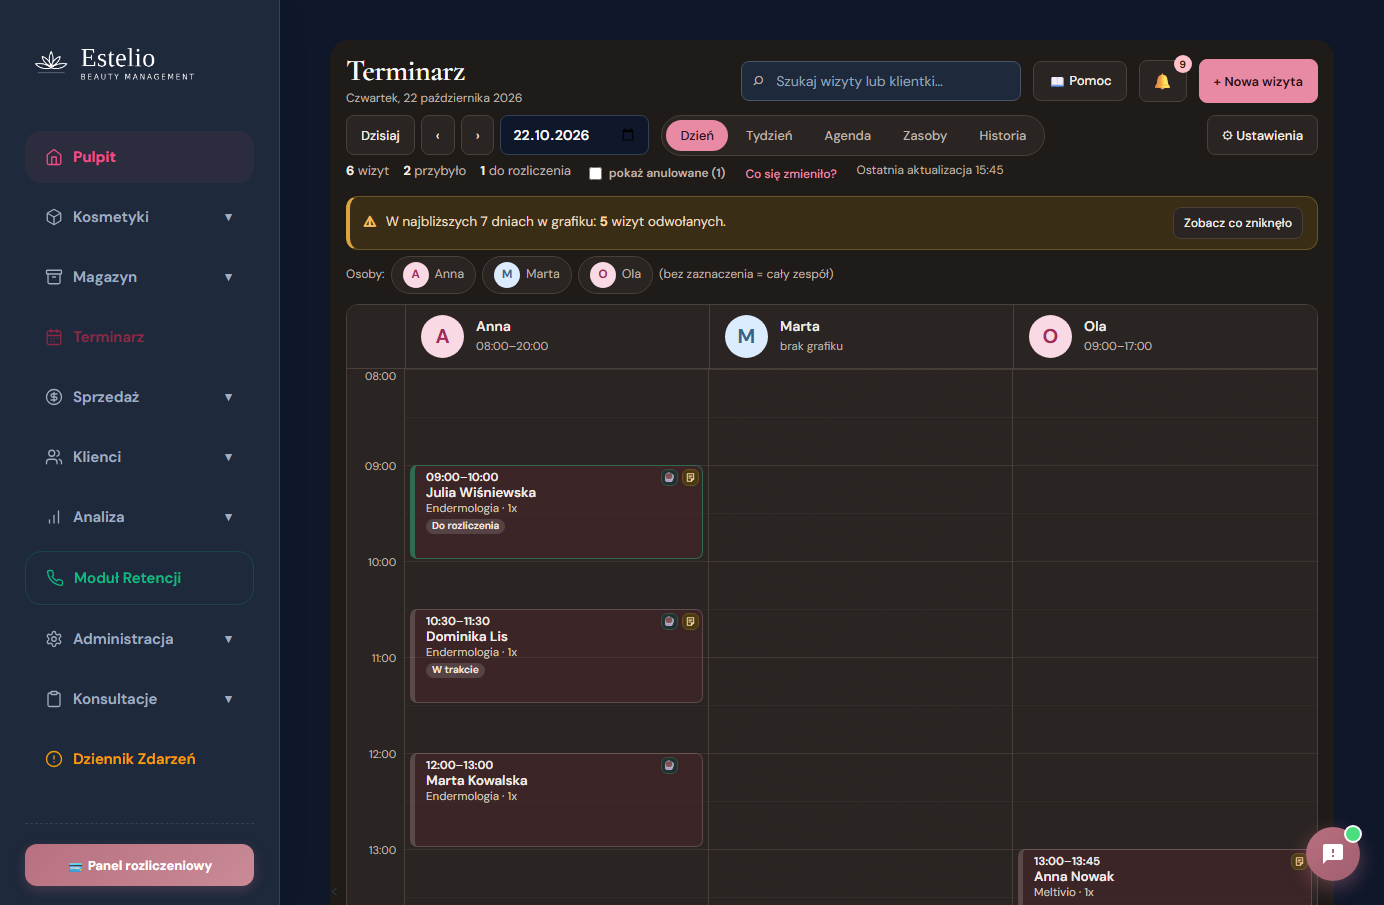
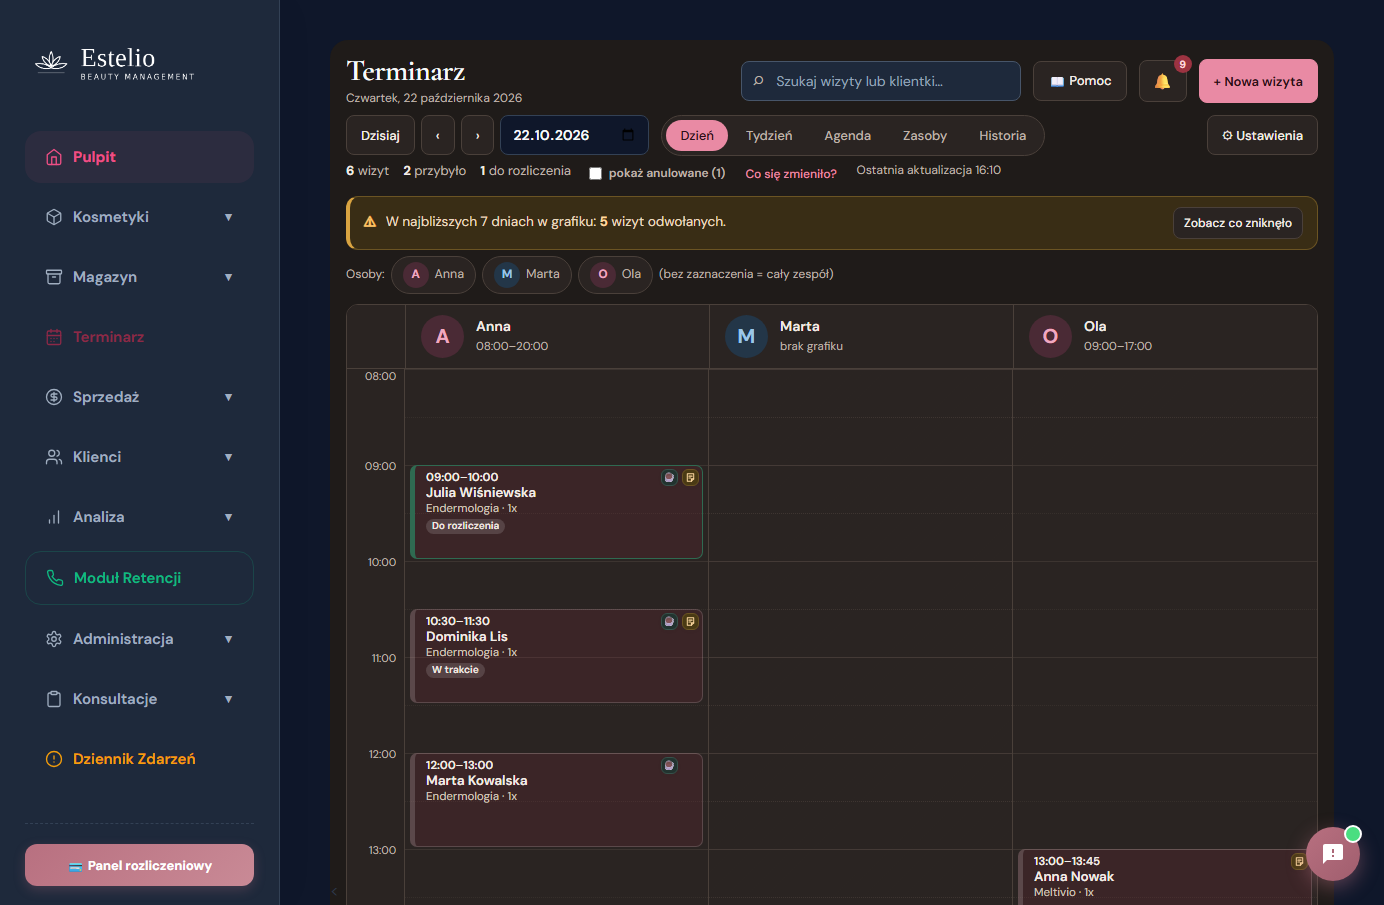
fix(terminarz): ciemny motyw — licznik dzwonka i awatary przestaly swiecic
Po przeklikaniu: przy „Pilne teraz" zostaly jeszcze jasne elementy mocno kontrastujace
z reszta — licznik przy dzwonku (jasnorozowe kolko z liczba, jasnosc 205/255) i pastelowe
awatary osob. Na jasnym tle sa delikatne, na ciemnym byly najjasniejszym punktem ekranu.
Tla sciemnione, litery rozjasnione; kod kolorystyczny osob bez zmian.

Kontrola: skan wszystkich elementow modulu nie znajduje juz tla jasniejszego niz 170/255 —
zostaja tylko polprzezroczyste biele 14–16% (obramowania kart, znaczniki stanu).

diff --git a/public/terminarz.css b/public/terminarz.css
@@ -636,3 +636,13 @@ body.dark-mode .trm .trm-pref-znak { background:#22332f; border-color:#36514a; }
 body.dark-mode .trm .trm-karta .u { color:#d2c5bd; }
 body.dark-mode .trm .trm-karta .zn span { background:rgba(255,255,255,.14); color:#f0e7e1; }
 body.dark-mode .trm .trm-karta.anul { background:#2b2522; }
+/* Poprawka po przeklikaniu (19.10.2026): w ciemnym motywie świeciły jeszcze trzy rzeczy
+   zbudowane z jasnych pasteli — licznik przy dzwonku i awatary osób. Na jasnym tle są
+   delikatne, na ciemnym stają się najjaśniejszym punktem ekranu. Ściemniamy tła,
+   rozjaśniamy litery — ten sam kod kolorystyczny, tylko odwrócony. */
+body.dark-mode .trm .trm-dzwonek-licz { background:#7d5718; color:#ffe6bd; }
+body.dark-mode .trm .trm-dzwonek-licz.pilne { background:#9c3341; color:#ffd7dd; }
+body.dark-mode .trm .trm-awatar { background:#4a2a35; color:#f0a9c0; }
+body.dark-mode .trm .trm-awatar.mint { background:#23402f; color:#8ed4b7; }
+body.dark-mode .trm .trm-awatar.gold { background:#453515; color:#e6c57c; }
+body.dark-mode .trm .trm-awatar.blue { background:#233648; color:#9cc6e8; }

diff --git a/docs/terminarz-dark/README.md b/docs/terminarz-dark/README.md
@@ -38,6 +38,12 @@ Dodatkowo pomiar kontrastu (WCAG) wyliczonych kolorów w przeglądarce:
 | karta klientki i usługi w kreatorze | 13,1:1 |
 | liczniki dnia | 8,3:1 |
 
+## Poprawka po przeklikaniu
+
+Właściciel sprawdził na żywo: przy „Pilne teraz” zostały jeszcze **jasne elementy mocno kontrastujące z resztą** — licznik przy dzwonku (jasnoróżowe kółko z liczbą) i awatary osób (pastelowe kółka z inicjałami). Na jasnym tle są delikatne, na ciemnym stawały się najjaśniejszym punktem ekranu. Ściemniliśmy tła i rozjaśniliśmy litery — kod kolorystyczny osób zostaje ten sam, tylko odwrócony.
+
+Po poprawce skan strony nie znajduje już w module żadnego tła jaśniejszego niż 170/255; zostają wyłącznie półprzezroczyste biele 14–16% (obramowania kart i znaczniki stanu), które z założenia mają być ledwie widoczne.
+
 ### Zrzuty
 
 | Plik | Co widać |
